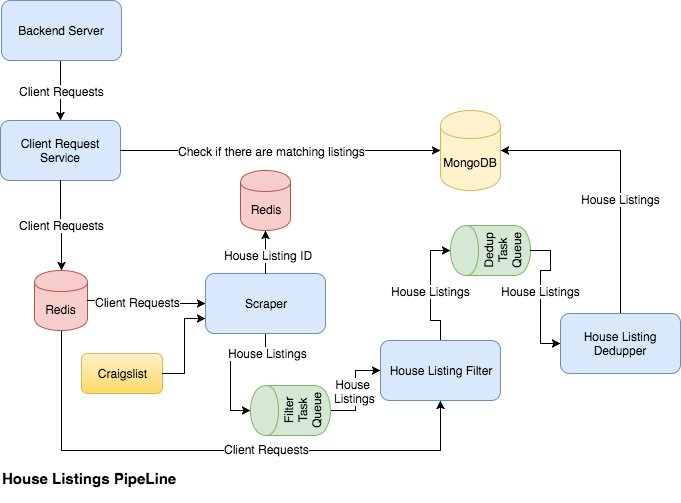
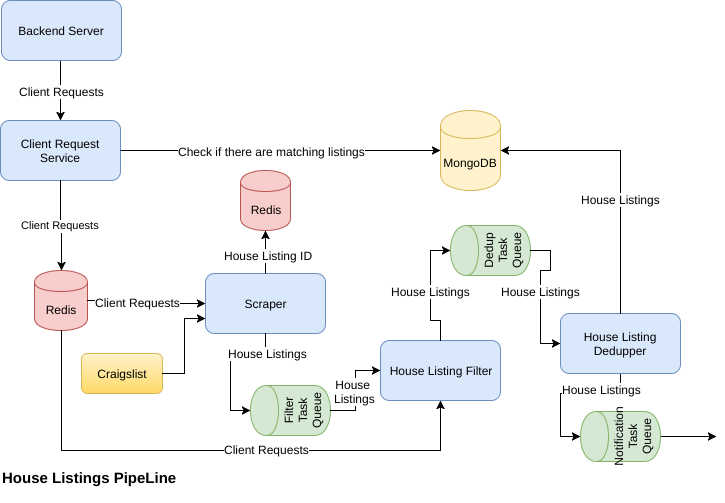
modify design

diff --git a/src/house_listing_pipeline/house_listing_deduper.py b/src/house_listing_pipeline/house_listing_deduper.py
@@ -1,0 +1,27 @@
+import os
+import sys
+
+import common package in parent directory
+sys.path.append(os.path.join(os.path.dirname(__file__), '..', 'common'))
+
+import mongodb_client
+
+from cloudAMQP_client import CloudAMQPClient
+
+HOUSE_LISTING_TABLE_NAME = "house-listing"
+
+
+DEDUP_TASK_QUEUE_URL = "amqp://qmkhhszp:tgEYKeeNuKfnKRiWLX6p9-Kuv8Zfl066@elephant.rmq.cloudamqp.com/qmkhhszp"
+DEDUP_TASK_QUEUE_NAME = "dedup_task_queue"
+
+NOTIFICATION_TASK_QUEUE_URL = "amqp://lmmocuap:DPdNdw03IT0laCvkNm66BzP_0iSY3GHk@elephant.rmq.cloudamqp.com/lmmocuap"
+NOTIFICATION_TASK_QUEUE_NAME = "notification_task_queue"
+
+cloudAMQP_client = CloudAMQPClient(DEDUP_TASK_QUEUE_URL, DEDUP_TASK_QUEUE_NAME)
+
+def handle_message(msg):
+    if msg is None or not isinstance(msg, dict):
+        return
+
+    task = msg
+    

diff --git a/document/design.md b/document/design.md
@@ -6,8 +6,8 @@
   1.  Then store the request into `Redis`.
   1.  For every 10 minutes, the `Scraper` loops over the requst in Redis, and scrape available house listings from `Craigslist`.
   1.  Once a listing scraped by `Scraper`, it checks if the listing's id is in Redis. If the listing's id does not exist, store the listing's id into Redis, and send the listing to `Filter Task Queue`.
-  1.  `House Listing Filter` fetches house listings which includes the client's id from `Filter Task Queue`. Based on the client's id, `House Listing Filter` acquires the client request from Redis. Then, send the house listing which matches the request into `Dedup Task Queue`
-  1.  `House Listing Dedupper` fetchs the listings from `Dedup Task Queue`, and performs dedupping base on image id in the listings. Then, store the listings into `MongoDB`
+  1.  `House Listing Filter` fetches house listings which includes the client's id from `Filter Task Queue`. Based on the client's id, `House Listing Filter` acquires the client request from Redis. Then, send the house listing which matches the request into `Dedup Task Queue`.
+  1.  `House Listing Dedupper` fetchs the listings from `Dedup Task Queue`, and performs dedupping base on image id in the listings. Then, store the listings into `MongoDB` and push them into `Notification Task Q    ueue` so that notification service can fetch the new house listings and sends clients notifications.
 
 The diagram of the data flow is shown below.
 
@@ -35,6 +35,7 @@ The diagram of the data flow is shown below.
     * Use [BeautifulSoup](https://www.crummy.com/software/BeautifulSoup/) to extract the urls of the image in the house listing's detail page.
     * Compute the hash of the image urls.
     * Filter out the House Listings whose `image_url_hash` have already existed in database.
+    * Store the House Listings into database and push them into notification queue as well
 
 Table 1: Client Request
 
@@ -42,13 +43,18 @@ Table 1: Client Request
 |--- | ---|
 |areas|list of strings, interested areas|
 |city|string, interested city|
+|departure_to_work|int, departure time of going to work|
 |id|string, client id|
 |max_bedroom|int, maximum number of bedrooms|
 |max_time_to_work|long, maximum time from work to place by transit|
 |max_price|int, maximum price|
 |min_bedroom|int, minimum number of bedrooms|
 |min_price|int, minimum price|
-|work_place_postal_code|string, the postol code of your work place|
+|time_to_work|int, duration of time from house to work (seconds)|
+|time_to_work_delta|int, range of time_to_work, time_to_work +/- time_to_work_delta (seconds)|
+|travel_mode|string, transit mode, e.g: driving, walking, transit|
+|work_addr|string, the address or postal code of your work place|
+
 
 Table 2: House Listing
 
@@ -56,7 +62,8 @@ Field | Discriptions
 --- | ---
 area|string, area
 client_id|string, client id
-geotag|string, geographic code
+lat|float, geographic code
+lon|float, geographic code
 image_url_hash|string, hash value of image urls
 listing_id|string, listing id
 location|string, location
